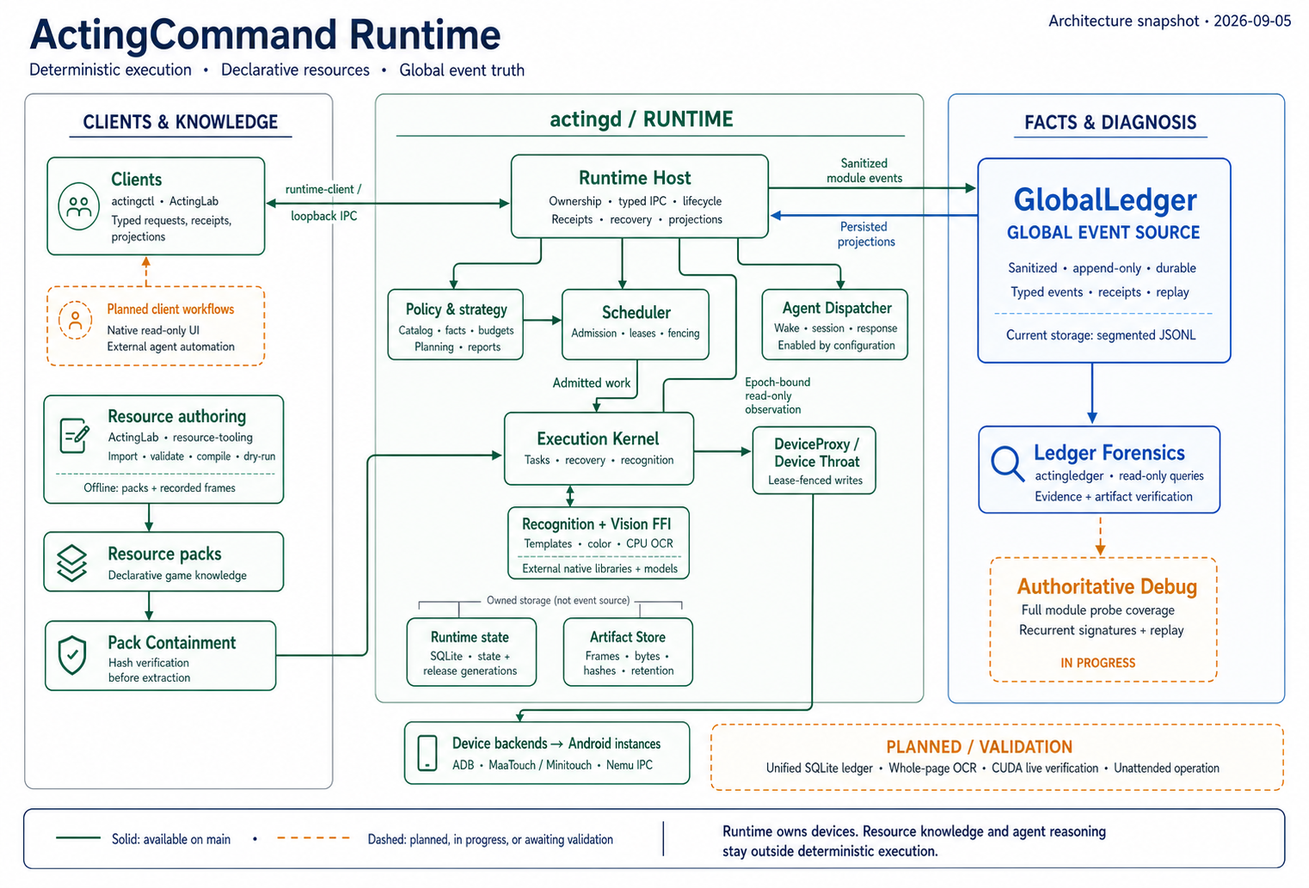
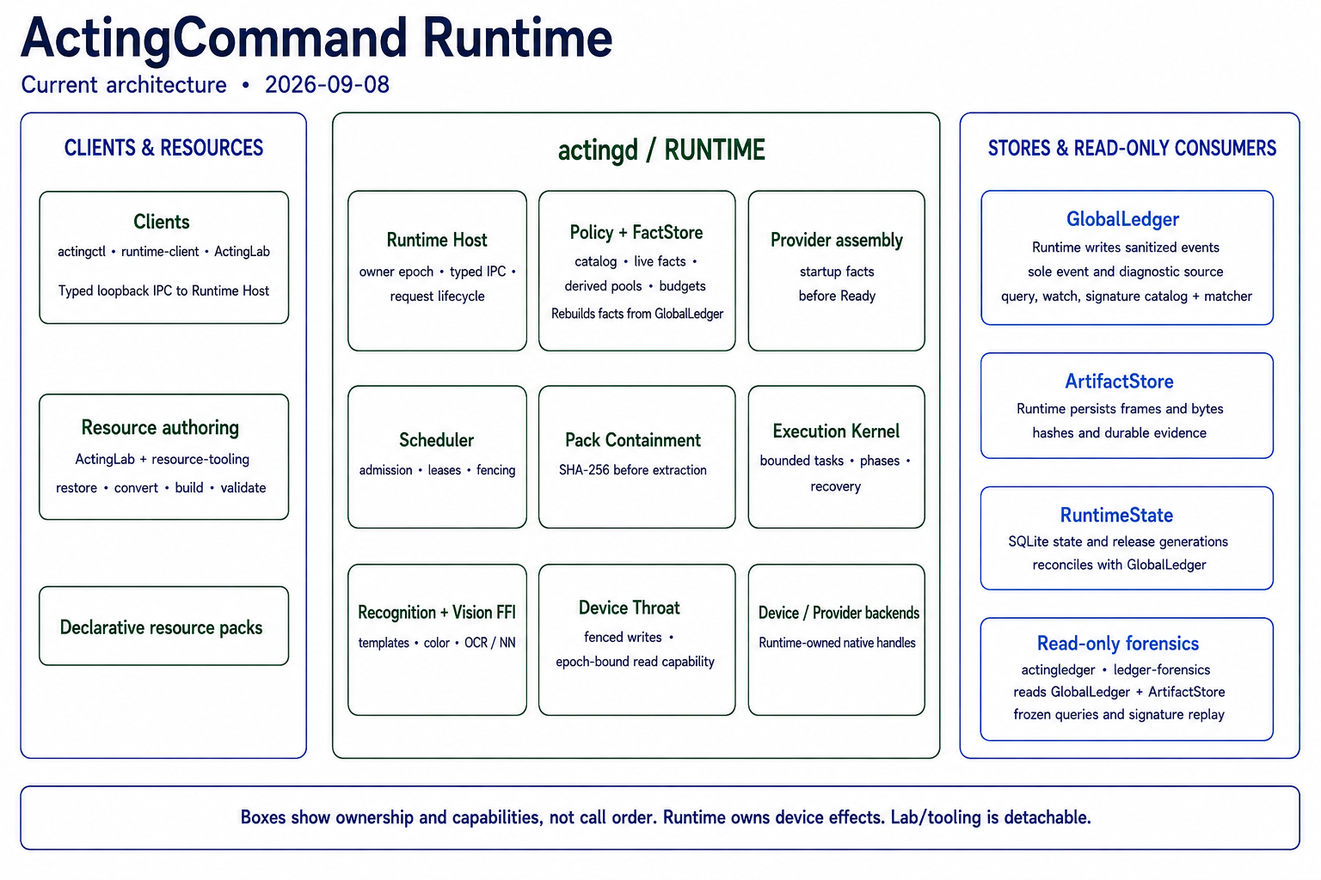
docs: align bilingual README and diagrams with current Runtime

Changed region(s): [[0.0, 0.0, 0.9882, 0.9688], [0.8029, 0.0, 0.9882, 0.0312], [0.6176, 0.5938, 0.6485, 0.6562]]

diff --git a/README.en.md b/README.en.md
@@ -18,56 +18,50 @@
 
 CI: [current main status](https://github.com/HS7097/ActingCommand-Runtime/actions/workflows/ci.yml?query=branch%3Amain) (Windows: fmt / clippy `-D warnings` / test) · [Exact-SHA Windows build artifacts](https://github.com/HS7097/ActingCommand-Runtime/actions/workflows/windows-remote-build.yml) · License `AGPL-3.0-only` · This repository is public
 
-**Current maturity (2026-09-05)**: scheduling arbitration, the device throat, task containment, declarative policy catalogs, and budgeted dispatch are wired into the resident runtime. Instance facts, strategic evaluation, reports and planning signals, proposal generation, and the Runtime Dispatcher session protocol are implemented. GlobalLedger is the sole global event fact source and is being extended into an authoritative debugging tool across modules. **The OCR recognition chain has passed one full official CPU live run**: autonomous return-to-Home recovery, template navigation, single-touch segmented-swipe paging, 16-target OCR per frame, dictionary-normalized comparison, terminal-anchor-page completion, and a `return_home` closeout, in one command, 219 seconds, zero manual input. Real scheduling time semantics, long unattended operation, OCR coverage, and CUDA still need their corresponding live evidence.
-
-The early Python mock, historical Go contracts, and Go/Python benchmark tools have been moved out of this repository (archived in ActingCommand-Legacy-Runtime, **not yet public**); the Rust benchmark tool `benchmarks/rust` and historical benchmark reports remain.
+**Current implementation (2026-09-08)**: the resident Runtime exposes typed IPC, resource containment, scheduling and budgets, phased tasks, page/OCR projections, and durable receipts. GlobalLedger carries the sole event and diagnostic facts. Shared queries, registration/matching/retirement of finite diagnostic signatures, and read-only offline replay have official entry points. This document describes current mainline source; device, model, resource-pack, and long-running verification claims depend on their corresponding execution facts.
 
 ---
 
-## 🔁 The self-maintaining loop
+## 🔁 Execution and closeout
 
-![ActingCommand self-maintaining loop](./docs/assets/self-maintaining-loop.png)
+![ActingCommand startup, request execution, and shutdown flow](./docs/assets/self-maintaining-loop.png)
 
-The reason this architecture exists: to free game automation from "the game updates, and the whole world waits for the maintainer to ship." The target loop — after a game update (①), agents play and map out the changes (②), then author or revise declarative resource packs (③); packs enter the runtime through hash containment, get admitted by the scheduler (④), executed deterministically (⑤), fully ledgered (⑥); on failure, agents self-diagnose from ledger evidence and repair the resources (⑦), returning to ③. Zero per-frame reasoning inside the loop — reasoning is spent on maintenance, not execution.
+The three rows describe separate startup, single-request, and Host-shutdown lifecycles. Startup reads configuration and acquires OwnerGuard, opens ArtifactStore and GlobalLedger, then assembles the Provider and records startup facts before publishing the current owner's ready endpoint. Provider construction-ready attests this assembly; inference and lazy initialization require their own observations. See the [daemon entry point](./apps/actingd/src/main.rs) and [Provider startup contract](./contracts/provider-startup.md).
 
-Resource authoring, execution, and ledger diagnosis have been connected in practice: on the Aug–Sep 2026 OCR task chain, the resource pack was agent-authored, diagnosed and revised using ledger evidence, and then passed live — including the agent-assisted `return_home` recovery pack, now a live-verified reusable baseline in the resource repository. Runtime implements wake records, session start/resume, responses, and bounded session management. Actual automatic launch of external agents, ② (automatic exploration), and the complete autonomous maintenance loop remain planned.
+Runtime Host owns the request lifecycle. Resource SHA-256 verification precedes extraction; Scheduler manages admission and device-write leases, while Execution Kernel runs bounded tasks, phases, and recovery. Read-only observation uses an owner-epoch-bound read capability. Lease fencing governs device effects, and terminal receipts reference durable outcome facts. GlobalLedger records events throughout; ArtifactStore retains frames and large raw payloads. Task outcome and evidence completeness are reported separately.
+
+Host shutdown stops admission, drains work, and reclaims the policy driver before Scheduler-authorized native-resource closure, quiescence, and the final M4 summary. Sessions retained by read-only observation use dedicated resource-close-only leases. Primary and cleanup errors are both preserved; unconfirmed closure retains Unconfirmed and owner protection. The Host remains resident after an individual request; the shutdown row is a separate lifecycle. See [read-session resource closure](./contracts/read-session-resource-close.md) and [native-resource ownership](./contracts/nemu-owned-resource-close.md).
+
+Maintenance can recover resource drafts from ledger facts and verified artifacts, then author, build, and validate them for execution. Runtime Dispatcher implements wake records, session start/resume, responses, and bounded management. Automatic external-agent launch, exploration, and the complete autonomous maintenance loop still require further implementation and verification.
 
 ## 🏛 System shape
 
-![ActingCommand Runtime architecture](./docs/assets/runtime-architecture.png)
+![ActingCommand Runtime component ownership map](./docs/assets/runtime-architecture.png)
 
-Green/blue nodes and solid lines represent current capabilities merged into `main` and wired into their corresponding entry points; orange nodes and dashed lines represent capabilities that are planned, in progress, or awaiting verification. GlobalLedger is the sole global event fact source; existing read-only forensics and future authoritative debugging both read from it. Source integration does not imply that every corresponding live scenario has been verified.
+The boxes show current ownership and capabilities; the execution diagram above shows lifecycle order. Production clients request Runtime work through typed loopback IPC. Runtime holds devices and native Providers, and Scheduler arbitrates write effects. Lab/resource tooling forms a detachable authoring and debugging layer. [CONTEXT.md](./CONTEXT.md) defines the terms and responsibilities.
 
-Terminology follows [CONTEXT.md](./CONTEXT.md) in the repository (Runtime Host / Scheduler / Execution Kernel / Device Throat / DeviceProxy, each defined precisely).
-
-**GlobalLedger's diagnostic role**: typed events, durable receipts, and replay already exist, with `actingledger` providing read-only forensics. Module-wide probe coverage, recurrence signature matching, and replay assessment are in progress. The goal is to elevate the ledger into an authoritative debugging tool that locates normal results, degradation, and failure causes in the same event source, keeping every diagnosis traceable to its original facts. Complete diagnostic coverage is not yet available.
-
-## 📍 Current progress (2026-09-05)
-
-| Milestone | What happened |
+| Boundary | Current behavior and source entry |
 |---|---|
-| **2026-08-10** | First live end-to-end loop: hash-sealed resource pack → resident runtime → live emulator page recognition → contained task execution → typed scheduling outcome → fully ledgered; 3.4 seconds per run, zero manual input. |
-| **2026-08-20** | Composite daily + weekly reward-claim task chain completed live (real claim branch verified). |
-| **2026-09-01** | **Official CPU live OCR full run: PASS** — non-Home entry autonomously recovered by the runtime (2 steps back to Home, re-verified) → template navigation to the operator roster → 41 frames of single-touch segmented-swipe paging (uniform drag + vertical brake, MaaTouch point stream) → 16-target OCR per frame (920 mapping records, zero discarded) → canonical/alias/tolerant dictionary comparison (294 unique canonical names, zero out-of-dictionary) → `operator_end` anchor-page termination → `return_home` closeout. 219 seconds, strict no-fallback, all 42 projection artifacts hash-bound. |
+| **Host and Provider** | Host manages owner epoch, IPC, requests, and closure. Provider assembly follows store opening; startup results are ledgered before Ready. [Startup contract](./contracts/provider-startup.md) |
+| **Resources and execution** | Containment verifies pack hashes; Scheduler manages leases and fencing; Kernel consumes contained resources for bounded tasks, phases, and recovery. [Contained operations](./contracts/contained-lab-operation.md) |
+| **Events and artifacts** | GlobalLedger persists sanitized events as the sole diagnostic fact source. ArtifactStore retains referenced bytes, hashes, and retention metadata; persistence failures propagate explicitly. [Event query](./contracts/global-ledger-query.md) |
+| **State and policy** | RuntimeState uses SQLite for state and immutable release generations, reconciled with GlobalLedger. Policy reuses one compiler, clock, and pure evaluation semantics. [Scheduling v2](./contracts/scheduling/v2/README.md) |
+| **Read-only consumers** | actingledger / ledger-forensics read the ledger and ArtifactStore, preserving corruption locations, gaps, and frozen cursors. Input material stays read-only. [Finite signatures](./contracts/diagnostic-signatures.md) |
+| **Lab and resource authoring** | Online observation/operations use Runtime; detachable Lab/resource-tooling supplies offline authoring, restoration, compilation, and pack validation. [Resource restoration](./contracts/resource-restore.md) |
 
-| Dimension | State |
+## 📍 Current capabilities and verification boundaries
+
+| Capability | Current implementation |
 |---|---|
-| **Execution and resource entry points on `main`** | Resident daemon, typed loopback IPC, scheduling admission and lease fencing, contained task execution (task timeout, terminal anchors, independent `max_steps`, recovery-pack auto-repositioning), pack containment, artifact store and official OCR projection (v2, paginated), device backends (including `SegmentedSwipe`, MaaTouch/Minitouch point streams, dynamic MuMu Nemu IPC binding), NCC template matching and color predicates, production OCR provider wiring, and dictionary-constrained comparison. ActingLab connects recording, drafts, pack building, transactional publication, and offline `package dry-run` rehearsal. |
-| **Scheduling and maintenance interfaces on `main`** | Four-document declarative policy catalogs, the pure evaluator, immutable catalog versions, dispatch, and budgets are wired into `actingd`. Instance `PublishFact`, strategic deficit/capacity/urgency evaluation, reports, planning signals, and proposal generation are implemented. Runtime Dispatcher implements wake/session/start/resume/response, recovery, and bounded configuration. Project interface v2 provides paginated read-only projections of projects, instances, catalogs, facts, goals, decisions, runtime state, and diagnostics for future UI queries. |
-| **Current persistence and diagnosis** | GlobalLedger uses segmented persistence and is the sole global event fact source. RuntimeState uses SQLite for runtime state and immutable release generations, reconciled with the Ledger. `ledger-forensics` / `actingledger` provide read-only forensics. |
-| **In progress and awaiting verification** | Module-wide ledger probe coverage, signature matching and replay assessment; real scheduling time semantics and long unattended operation; expansion of the first complete resource task set; OCR coverage, whole-page multi-block detection, and CUDA live testing; coverage of the capture backend matrix (adb / droidcast_raw / nemu_ipc). CPU OCR has the single full live-run result recorded above. |
-| **Future work** | Automatic launch of external agents and the complete autonomous maintenance loop; a native Rust read-only monitoring console; a GlobalLedger SQLite backend and unified RuntimeDatabase. |
+| **Execution and recognition** | Typed IPC, hash containment, task timeout/step/terminal-anchor limits, phased control and total budgets, recovery packs, template matching, color predicates, OCR dictionary comparison, and official page projections. |
+| **Online Lab** | observe obtains Runtime's current page projection. do resolves an operation from current element projections and can wait for a target page within the same bounded request. Old-frame hints retain provenance; actual input uses current resolution. [Page projection](./contracts/page-projection.md), [operation contract](./contracts/contained-lab-operation.md) |
+| **Offline resource consumption** | restore uses GlobalLedger, verified ArtifactStore references, and the original pack to recover supported operation drafts. convert → build-task → validate reuses the existing resource pipeline. Unrecoverable fields/dependencies produce explicit gaps; authors declare the business goal. [Resource restoration](./contracts/resource-restore.md) |
+| **Calendars and budgets** | Four-document policy catalogs, v2 interval-validity predicates, server clocks, pure compilation/evaluation, immutable catalogs, dispatch, and budgets. Lab scheduling compile/timeline provides official offline entry points. Configuration-registered instance aliases remain intact through policy. [Scheduling guide](./contracts/scheduling/README.md) |
+| **Live facts and pools** | agent-publish-facts atomically submits typed facts through Runtime. FactStore retains original observation times, TTL, provenance, and input watermarks; ledger_fact pools derive from the same fact snapshot. Expired, unknown, low-confidence, and input-invalidated observations keep explicit states. [Live fact pools](./docs/live-fact-pools.md) |
+| **State and planning** | Instance facts, strategic deficit/capacity/urgency, reports, planning signals, proposals, and Dispatcher sessions; project interface v2 supplies bounded read-only projections. Status/MonitorStatus samples are ledgered before their fact-bound responses. [State observation](./contracts/runtime-state-observation.md) |
+| **Queries and signatures** | EventQuery shares module, diagnostic-code, and correlation filters with lab watch and offline events. Explicit Lab register/match/retire operations ask Runtime to record signature facts; actingledger replays frozen catalogs and inputs read-only. Missing fields, multiple matches, and incomplete evidence are explicit. [Queries](./contracts/global-ledger-query.md), [signatures](./contracts/diagnostic-signatures.md) |
 
-## 🗺 Roadmap
-
-Remaining capabilities and verification work, with no dates promised:
-
-1. **Authoritative ledger debugging** — extend typed probes across modules and complete signature matching and replay assessment so normal results, degradation, and failure causes can be located in the ledger;
-2. **Resident-operation evidence** — build on existing policy, budget, fact, and strategic-report capabilities to verify real time semantics, recovery, and long unattended operation, comparing planning signals with actual outcomes;
-3. **Resources and recognition** — extend the first complete task set, verify roster coverage, and complete provider whole-page multi-block detection (whole-page reads + overlap dedup), CUDA, and capture-backend matrix verification;
-4. **Clients and autonomous maintenance** — build a native Rust read-only monitoring console, connect external agent launch to the existing Dispatcher session interface, and progressively complete automatic exploration, resource revision, and re-verification;
-5. **Future storage evolution** — plan a GlobalLedger SQLite backend and unified RuntimeDatabase while preserving the sole event fact source and recoverable state reconciliation;
-6. **MAA / MaaFramework compatibility** — continue the MAA resource seed-import and MaaFramework second-execution-backend directions.
+Signature matching classifies a finite set of registered failure contexts; root-cause conclusions still require the original facts. Probe, signature, and replay coverage is bounded, with absent observations preserved as gaps. Real calendar dispatch, long unattended operation, device/capture-backend matrices, OCR coverage, and CUDA results must identify their execution and materials. Source integration establishes capability.
 
 ## ⚖ Seven structural invariants (enforced by guards / tests / compile-time and real-process counterexamples)
 
@@ -75,7 +69,7 @@ Remaining capabilities and verification work, with no dates promised:
 2. **The Runtime is the only device holder**: the dependency graphs and sources of production clients (actingctl / runtime-client / ActingLab) cannot reach device backends; raw adb exists only in the `device` crate beneath the Runtime; historical client device commands are fail-loud tombstones. (Exception: `apps/device-test` is a direct-device diagnostic binary outside the production chain.);
 3. **GlobalLedger is the only source of truth**: its only write entry is `append(SanitizedEventDraft)`; sanitization precedes persistence; terminal states are absorbing (duplicate/conflicting commits are rejected with an audit fact). Clients may submit typed instance facts through `PublishFact`; Runtime controls their processing and ledger persistence, and clients never write the ledger directly;
 4. **Containment is the only kernel entry for resources**: hash verification (constant-time comparison) precedes extraction, with a compressed-size upper-bound precheck; the `LoadedBundle` capability makes "using an unverified pack" unrepresentable by construction — pinned by trybuild compile-failure cases;
-5. **Tasks must not summon tasks**: a task only emits pure-data successor suggestions and never chain-starts them; the production path fail-louds a successor suggestion back to the caller (`contained_task_requires_scheduler`). Scheduler adjudication of successors is a planned next step;
+5. **Tasks must not summon tasks**: a task only emits pure-data successor suggestions and never chain-starts them; the production path fail-louds a successor suggestion back to the caller (`contained_task_requires_scheduler`), leaving successor adjudication to Scheduler;
 6. **Lab and resource tooling are detachable**: proven by a dependency-graph guard under `--all-features` — no workspace package outside Lab / ActingLab / resource-tooling has any dependency path into them (with feature-gate-bypass counterexamples); resource tooling likewise cannot reach back into the Runtime or the device layer;
 7. **Zero game identity**: Runtime-owned code, contracts, and defaults are scanned by an architecture guard banning known project identity terms (game names, package names, server suffixes), with tests in scope; coordinates and thresholds exist only in resource packs, not in runtime code — a design convention, not auto-enforced. The framework recognizes "game shape" (resource pools, pages, tasks), never "game identity". Comparison **algorithms** live in the Runtime; the compared **values** (truth dictionaries etc.) all come from packs — same invariant.
 
@@ -88,8 +82,8 @@ Nine further **completion acceptance invariants** (deterministic replay, zero-si
 | Name | Responsibility |
 |---|---|
 | `actingd` | Resident daemon process adapter hosting all kernel components below |
-| `actingctl` | Production user CLI (observe / status / monitor-* / stream / reset / task-run, with `--recovery-package` auto-repositioning); successful results are single-line JSON |
-| `actinglab` | Debug probe + resource authoring (record → draft → build → transactional publish → offline `package dry-run`); **not a production dependency** |
+| `actingctl` | Production user CLI: observe / status / monitor-* / stream / reset / task-run / agent-publish-facts / request-shutdown; JSON receipts and exit status |
+| `actinglab` | Online Runtime observation/operations, queries and signatures; offline resource restoration/authoring/build/validation, scheduling compilation and timeline; **not a production dependency** |
 | `device-test` | Device backend diagnostic tool; independent `ledger --state-root <runtime-state>` reads Runtime facts through B ([query options](contracts/global-ledger-query.md)) |
 | `vision-provider-check` | Read Provider startup facts from a specified Runtime ledger; mechanical file hashes and PE exports |
 | `actingledger` (`apps/ledger-forensics`) | Read-only GlobalLedger forensics CLI |
@@ -101,7 +95,7 @@ Nine further **completion acceptance invariants** (deterministic replay, zero-si
 | `runtime-host` | Resident ownership, local typed IPC, lease-gated DeviceProxy, instance facts and policy/budget dispatch, strategic reports, and Dispatcher session lifecycle |
 | `runtime-client` | Client-side typed local IPC and project interface v2 paginated read-only projections; neither constructs nor holds production device backends |
 | `scheduler` | Per-instance write admission, lease lifecycle and fencing authority |
-| `execution-kernel` | Daemon-held execution sessions + pure task/probe decision planning; contained-task timeout, step, and terminal-anchor semantics |
+| `execution-kernel` | Daemon-held execution sessions + pure task/probe decision planning; contained-task timeout, steps, phase/total budgets, and terminal-anchor semantics |
 | `ledger` | Segmented persistent global event ledger (sole event fact source and authoritative diagnostic source) |
 | `artifact-store` | Artifact bytes, hashes, retention metadata, frame buffers, evidence export |
 | `runtime-state` | SQLite-backed runtime state and immutable release generations, reconciled with GlobalLedger |
@@ -113,7 +107,7 @@ Nine further **completion acceptance invariants** (deterministic replay, zero-si
 | `actingcommand-contract` | Mainline Rust contract definitions (protocol / device / engine boundary vocabulary) |
 | `host-metrics` | Safe boundary for platform performance counters |
 
-**Recognition FFI boundary (wired into the production recognition path; live-verified on CPU)**
+**Recognition FFI boundary (wired into the production recognition path)**
 
 | Name | Responsibility |
 |---|---|
@@ -134,10 +128,10 @@ Nine further **completion acceptance invariants** (deterministic replay, zero-si
 
 ## 🔍 Recognition plane status
 
-- **Available (live-verified)**: template matching (NCC family) and color predicates; the OCR production chain — `PP-OCRv6_medium` (ONNX Runtime, CPU, strict no-fallback), per-invocation execution attestation (provider/model/device hashes each time), canonical/alias/tolerant dictionary comparison with bounded retry;
-- **Known boundary**: the provider currently has region single-line semantics (one block per target). Roster coverage still needs verification; whole-page multi-block detection (det → per-box rec) awaits implementation and verification, targeting "whole-page reads + overlap dedup";
-- **Pending live test**: CUDA execution (closure, Ready manifests, and device ordinal / stable-identity checks are implemented). One passing CPU run does not verify CUDA, whole-page recognition, or complete roster coverage;
-- **Not distributed with the repository**: ONNX Runtime native libraries and OCR/NN models; they are materialized per task-local cache by the pinned-source hash-verified official tool, with `apps/vision-provider-check --state-root <runtime-state>` reading startup stages, bindings and original failures through B from the same ledger. `--after`, `--through` and `--limit` preserve a bounded page cursor. Ready attests construction only; inference and lazy initialization remain unobserved. Manifest, artifact-lock and export-audit modes report mechanical file observations.
+- **Current path**: NCC-family template matching and color predicates; PP-OCR single-line ROI recognition, OCR/NN JSON ABIs, canonical/alias/tolerant dictionary comparison, bounded retries, and per-invocation execution provenance. Current facts identify the model, provider, and device.
+- **Coverage boundary**: the provider currently uses region single-line semantics. Whole-page multi-block detection, complete roster coverage, CUDA, and capture-backend combinations require their respective implementation or verification. Existing CPU-run evidence remains bounded by its original records.
+- **External dependencies**: ONNX Runtime native libraries and models use pinned-source, hash-verified materialization; see the [Windows tools guide](./scripts/windows-tools/README.md). They are not distributed with this repository.
+- **Startup diagnosis**: vision-provider-check with `--state-root` reads Provider startup facts from the same Runtime through the read-only forensics layer. `--after`, `--through`, and `--limit` provide bounded cursors. Manifest, artifact-lock, and export-audit modes are mechanical file observations. Inference and lazy initialization require corresponding facts.
 
 ## 🧭 Design principles
 
@@ -173,7 +167,7 @@ actingcommand-actingd --config <actingd.json>
 # Daemon-level status (does not accept --instance)
 actingctl status --state-root <state-root>
 
-# Read-only single-frame observation (scheduler-admitted; events and frame artifacts ledgered)
+# Read-only single-frame observation (owner-epoch-bound read capability; events and artifacts ledgered)
 actingctl observe --state-root <state-root> --instance <alias>
 
 # Execute a contained task pack (hash verification precedes extraction)
@@ -185,13 +179,14 @@ actingctl task-run --state-root <state-root> --instance <alias> \
   [--recovery-package <recovery.zip> --recovery-expected-sha256 <hash>]
 ```
 
-On success, `actingctl` writes single-line JSON to stdout, including the official OCR projection where applicable. Argument, connection, and other errors write text to stderr and exit nonzero. Integrations must handle both output streams and the exit code. Both CLIs use hand-written argument parsing and provide **no `--help` / `--version`**.
+`actingctl` writes single-line JSON to stdout, including the official OCR projection where applicable. Failed receipts can also include JSON and exit nonzero; argument, connection, and other errors write text to stderr. Integrations must handle both output streams and the exit code. `actingcommand-actingd` and `actingctl` use hand-written argument parsing and provide **no `--help` / `--version`**; see the [CLI entry point](./apps/actinglab/src/main.rs) for ActingLab commands and options.
 
 Every `actingctl` command requires `--state-root`. The parameters consumed by each subcommand are listed below; the [argument parser](./apps/actingctl/src/main.rs) defines current behavior:
 
 | Subcommand | Instance and command parameters |
 |---|---|
-| `status` / `monitor-status` | Do not accept `--instance` |
+| `status` / `monitor-status` / `request-shutdown` | Do not accept `--instance` |
+| `agent-publish-facts` | Requires `--record-file`; the submission carries its fact scopes; does not accept `--instance` |
 | `observe` / `reset` / `monitor-clear` | Require `--instance` |
 | `monitor-set` | Requires `--instance`; optional `--interval-ms` (default 30000), `--expect` (default `home`), `--recover` |
 | `stream` | Requires `--instance`; optional `--max-frames` (default 1), `--interval-ms` (default 250) |
@@ -199,15 +194,15 @@ Every `actingctl` command requires `--state-root`. The parameters consumed by ea
 
 Use only the parameters belonging to the selected subcommand; the current parser accepting a known parameter does not imply that the subcommand uses it.
 
-## 🎮 Resource repositories
+`actingctl request-shutdown --state-root <state-root>` is an ordinary local Cli/Cli maintenance entry point. The client freezes the discovered owner epoch, PID, and start time. Host checks that owner, active leases, queued work, and in-flight requests/native actions at its admission gate. A busy owner returns `RuntimeBusy` and continues serving; an owner mismatch returns `RuntimeOwnerMismatch`. This operation needs no governance secret; owner epoch is not authentication.
 
-Game data (recognition templates, navigation graphs, operation and recovery declarations) is versioned independently of the runtime. The following repositories are **currently private**:
+Acceptance first records the typed GlobalLedger target and decision, then stops admission. The daemon reclaims the policy driver and uses `RuntimeHost::close` to settle resources, the M4 summary, ledger, and owner. JSON `shutdown_accepted` and `admitted` mean acceptance only; completion requires actual closure facts, the final summary, and the process result. A lost receipt reports `runtime_shutdown_receipt_unconfirmed` with the original error. The client does not resubmit or switch owners. Existing fatal and unconfirmed-resource protection remains in force.
 
-- **ActingCommand-Resources-Arknights** — upstream-derived layer from MAA; own layer currently includes: the composite daily+weekly reward-claim chain (live-verified), the operator-roster OCR task pack (four-fix edition, official live PASS; declaring task timeout, terminal anchor page, 16 OCR targets, and a 422-name truth dictionary), the `return_home` recovery baseline (live-verified, frozen, reusable), recruitment and full-entry navigation/operation sets, home-theme detection declarations (full hometheme set), character/material catalogs, recognition and recovery declarations, scheduling declarations (CN server);
-- **ActingCommand-Resources-AzurLane** — upstream-derived layer from Alas; own layer: main-screen navigation and full-entry operation sets, full character/equipment catalog templates (Git LFS), recognition and recovery declarations;
-- **ActingCommand-Resources-BlueArchive** — upstream-derived layer from BAAH / BAAS (coordinate catalogs and check regions); own layer: daily-claim pilot task, full-entry operation sets, equipment/material catalogs, recognition and recovery declarations.
+## 🎮 Resource packs and deployment
 
-Each repository uses a two-layer layout: `upstream-derived/` (third-party derived material with licenses and provenance) + `ours/` (own declarative data).
+Game templates, navigation, operations, recovery, and calendar declarations are versioned in independent resource sources. Resource tooling produces formal packs for Runtime containment by exact hash. Authors maintain provenance, licenses, and material evidence. Reusable assets and deployment-specific tasks are organized separately, with account-specific selections and configuration kept in private deployments.
+
+[Resource restoration](./contracts/resource-restore.md) describes drafting from existing ledger facts and the original pack; [scheduling declarations](./contracts/scheduling/README.md) connect tasks, procedures, facts, and budgets. Reproducing a task requires its resources, dependencies, and deployment configuration. Pack generation/compilation and actual execution results are recorded separately.
 
 ## 🤝 How we collaborate
 

diff --git a/README.md b/README.md
@@ -18,56 +18,50 @@
 
 CI:[主线当前状态](https://github.com/HS7097/ActingCommand-Runtime/actions/workflows/ci.yml?query=branch%3Amain)(Windows:fmt / clippy `-D warnings` / test) · [精确 SHA Windows 构建产物](https://github.com/HS7097/ActingCommand-Runtime/actions/workflows/windows-remote-build.yml) · 许可 `AGPL-3.0-only` · 本仓公开
 
-**当前成熟度(2026-09-05)**:调度仲裁、设备咽喉、任务收容、声明式策略目录与预算派发已接入常驻运行时;实例事实、战略求值、报告与规划信号、提案生成及 Runtime Dispatcher 会话协议已有实现。GlobalLedger 是全局唯一事件事实源,正推进为覆盖各模块的权威调试工具。**OCR 识别链已完成一轮官方 CPU 实机全流程验证**:自动回 Home 恢复、模板导航、单触分段滑动翻页、逐帧 16 目标 OCR、字典规范化比对、terminal 锚页判终、`return_home` 收口,一条命令 219 秒无人工输入完成。真实调度时间语义、长期无人值守、OCR 覆盖率与 CUDA 仍需完成对应实证。
-
-早期的 Python mock 与 Go 历史契约、以及 Go/Python 基准工具已迁出本仓(归档于 ActingCommand-Legacy-Runtime,**暂未公开**);仓内保留 Rust 基准工具 `benchmarks/rust` 与历史基准报告。
+**当前实现（2026-09-08）**：常驻 Runtime 已接入类型化 IPC、资源收容、调度与预算、阶段任务、页面/OCR 投影和持久回执。GlobalLedger 承载唯一事件与诊断事实；共享查询、有限诊断签名的登记/匹配/退役及只读离线回放均有正式入口。本文描述当前主线源码；具体设备、模型、资源包与长期运行的验证范围须以相应运行事实为准。
 
 ---
 
-## 🔁 自维护闭环
+## 🔁 执行与收尾
 
-![ActingCommand 自维护闭环](./docs/assets/self-maintaining-loop.png)
+![ActingCommand 启动、请求执行与关闭流程](./docs/assets/self-maintaining-loop.png)
 
-这套架构存在的理由:让游戏自动化摆脱「游戏一更新,全世界等维护者发版」。目标闭环是——游戏版本更新(①)后,智能体试玩摸清变化(②),制作或修订声明式资源包(③);资源包经哈希收容进入运行时,由调度器准入(④)、确定性执行(⑤)、全程入账(⑥);失败时,智能体凭账本证据自诊断并修复资源(⑦),回到 ③。环内逐帧零推理——推理花在维护,不花在执行。
+图中三行分别是启动、单次请求和 Host 关闭的生命周期。启动先读取配置并取得 OwnerGuard，再打开 ArtifactStore 与 GlobalLedger，随后装配 Provider、记录启动事实，最后发布当前 owner 的就绪端点。Provider 的 construction-ready 表示本次装配完成；推理与懒初始化需要各自的实际观察。见 [daemon 入口](./apps/actingd/src/main.rs) 与 [Provider 启动契约](./contracts/provider-startup.md)。
 
-资源制作、执行与账本诊断已在实战中串联:2026-08 至 09 月初的 OCR 任务链上,资源包由智能体撰写、经账本证据诊断并修订后实机通过——含智能体辅助制作的 `return_home` 恢复包(实机验证后成为资源仓中的可复用基线)。Runtime 已具备唤醒记录、会话启动/恢复、响应与有界会话管理;外部智能体的实际自动启动、②(自动摸清)与完整自主维护闭环仍在规划中。
+请求由 Runtime Host 管理生命周期。资源包经过 SHA-256 校验再解压；Scheduler 管理准入和设备写租约，Execution Kernel 执行有界任务、阶段与恢复。只读观察使用绑定 owner epoch 的读取能力。设备效果受租约 fencing 约束，终态回执引用已持久化的结果事实。GlobalLedger 持续记录事件，ArtifactStore 保存帧与大体量原文；任务结局和证据完整性分别表达。
+
+Host 关闭先停止准入、排空工作并回收 policy driver，再经 Scheduler 授权关闭所持有的原生资源、记录 quiescence 与最终 M4 summary。只读观察留下的会话使用专用 resource-close-only 租约关闭。主错误和清理错误均保留；关闭未确认时保持 Unconfirmed 和 owner 保护。每次请求结束后 Host 继续常驻；图中关闭行是独立生命周期。见 [只读会话资源关闭](./contracts/read-session-resource-close.md) 与 [原生资源所有权](./contracts/nemu-owned-resource-close.md)。
+
+维护侧可从账本与已验证制品恢复资源草稿，经制作、构包与校验后提交执行。Runtime Dispatcher 已有 wake、会话启动/恢复、响应与有界管理；外部智能体自动启动、自动探索和完整自主维护仍需后续实现与验证。
 
 ## 🏛 系统形态
 
-![ActingCommand Runtime 架构图](./docs/assets/runtime-architecture.png)
+![ActingCommand Runtime 组件所有权图](./docs/assets/runtime-architecture.png)
 
-图中绿色/蓝色节点及实线表示已经合入 `main` 并接入相应入口的当前能力;橙色节点及虚线表示规划、推进或待验证的能力。GlobalLedger 是全局唯一事件事实源;已有只读取证与未来权威调试能力都从这一事件源读取。源码接入不等于对应实机场景已经验证。
+图中方框表示当前组件所有权与能力分工，调用顺序见上方流程图。生产客户端经 typed loopback IPC 请求 Runtime；Runtime 持有设备与原生 Provider，Scheduler 仲裁写效果。Lab/资源工具处于可拆卸的制作与调试层。术语与职责以 [CONTEXT.md](./CONTEXT.md) 为准。
 
-术语以仓内 [CONTEXT.md](./CONTEXT.md) 为准(Runtime Host / Scheduler / Execution Kernel / Device Throat / DeviceProxy 等逐条定义)。
-
-**GlobalLedger 的诊断定位**:当前已有类型化事件、持久回执与重放,`actingledger` 提供只读取证入口。全模块探针覆盖、复发签名比对与回放考核正在推进,目标是把账本升格为权威调试工具:从同一个事件源定位正常结果、降级与失败原因,保持每条诊断与原始事实可追溯。完整诊断覆盖尚未完成。
-
-## 📍 当前进度(2026-09-05)
-
-| 里程碑 | 内容 |
+| 边界 | 当前行为与源码入口 |
 |---|---|
-| **2026-08-10** | 首次实机端到端闭环:哈希封印资源包 → 常驻运行时 → 模拟器实机页面识别 → 收容任务执行 → 类型化调度结局 → 全程入账;单次 3.4 秒,零人工输入。 |
-| **2026-08-20** | 日常+周常复合领取任务链实机完成(实弹领取分支验证)。 |
-| **2026-09-01** | **官方 CPU 实机 OCR 全流程 PASS**:开局非 Home 由运行时自主恢复(2 步回 Home 复验)→ 模板导航入干员页 → 41 帧单触分段滑动翻页(匀速拖动+垂直刹车,MaaTouch 点流)→ 每帧 16 目标 OCR(920 条映射记录零丢弃)→ 规范/别名/容错字典比对(294 唯一规范名,零越界)→ `operator_end` 锚页判终 → `return_home` 收口。219 秒,严格无回退,42 个投影工件逐一哈希绑定。 |
+| **Host 与 Provider** | Host 管理 owner epoch、IPC、请求和关闭；Provider 在存储已打开后装配，启动结果先入账再 Ready。[启动契约](./contracts/provider-startup.md) |
+| **资源与执行** | Containment 校验包哈希；Scheduler 管理租约与 fencing；Kernel 消费收容资源并执行有界任务、阶段和恢复。[收容操作](./contracts/contained-lab-operation.md) |
+| **事件与制品** | GlobalLedger 持久化脱敏事件并提供唯一诊断事实；ArtifactStore 保存被引用字节、哈希与留存元数据，持久化失败显式传播。[事件查询](./contracts/global-ledger-query.md) |
+| **状态与策略** | RuntimeState 用 SQLite 保存状态及不可变发布代次，并与 GlobalLedger 对账；policy 复用唯一编译器、时钟与纯求值语义。[调度 v2](./contracts/scheduling/v2/README.md) |
+| **只读消费** | actingledger / ledger-forensics 读取账本与 ArtifactStore，保留损坏位置、缺口和冻结游标；输入材料保持只读。[有限签名](./contracts/diagnostic-signatures.md) |
+| **Lab 与资源制作** | 在线观察/操作通过 Runtime；离线制作、恢复、编译和包校验由可拆卸的 Lab/resource-tooling 承载。[资源恢复](./contracts/resource-restore.md) |
 
-| 维度 | 状态 |
+## 📍 当前能力与验证边界
+
+| 能力 | 当前实现 |
 |---|---|
-| **执行与资源入口已接入 `main`** | 常驻 daemon、typed loopback IPC、调度准入与租约 fencing、收容任务执行(任务超时、终止锚页、独立 `max_steps`、恢复包自动回位)、资源包收容、工件存储与官方 OCR 投影(v2,分页)、设备后端(含 `SegmentedSwipe`、MaaTouch/Minitouch 点流、MuMu Nemu IPC 动态绑定)、NCC 模板匹配与颜色判据、OCR provider 生产接线及字典约束比对。ActingLab 已串起录制、草稿、构包、事务化发布与 `package dry-run` 离线预演。 |
-| **调度与维护接口已接入 `main`** | 四文档声明式策略目录、纯求值器、不可变目录版本、派发与预算已接入 `actingd`;实例事实 `PublishFact`、战略差额/容量/紧迫度求值、报告、规划信号与提案生成已有实现。Runtime Dispatcher 已有 wake/session/start/resume/response、恢复与有界配置。项目接口 v2 提供项目、实例、目录、事实、目标、决策、运行状态与诊断的只读投影及分页,可供后续 UI 查询。 |
-| **当前持久化与诊断** | GlobalLedger 使用分段持久化,是全局唯一事件事实源;RuntimeState 使用 SQLite 保存运行状态与不可变发布代次,并与 Ledger 对账。`ledger-forensics` / `actingledger` 提供只读取证入口。 |
-| **正在推进与待验证** | 全模块账本探针覆盖、签名匹配与回放考核;真实调度时间语义与长期无人值守实证;资源产线首批完整任务扩充;OCR 覆盖率、整页多框检测与 CUDA 实测;采集三后端矩阵(adb / droidcast_raw / nemu_ipc)覆盖。CPU OCR 已有上述单次全流程实机结果。 |
-| **后续规划** | 外部智能体自动启动与完整自主维护闭环;Rust 原生只读监控台;GlobalLedger SQLite 后端与统一 RuntimeDatabase。 |
+| **执行与识别** | typed IPC、资源哈希收容、任务超时/步数/终止锚页、阶段控制与总预算、恢复包；模板匹配、颜色判据、OCR 字典比对和官方页面投影。 |
+| **在线 Lab** | observe 获取 Runtime 当前页面投影；do 按当前元素投影解析操作，可在同一请求内有界等待目标页面。旧帧提示保留来源，实际输入使用当前解析结果。[页面投影](./contracts/page-projection.md)、[操作契约](./contracts/contained-lab-operation.md) |
+| **离线资源消费** | restore 从 GlobalLedger、verified ArtifactStore 引用和原包恢复有依据的操作草稿；convert → build-task → validate 复用现有资源产线。无法重建的字段/依赖显式列出 gaps，业务目标由作者声明。[资源恢复](./contracts/resource-restore.md) |
+| **日历与预算** | 四文档策略目录、v2 时间区间有效谓词、服务器时钟、纯编译/求值、不可变目录、派发与预算；Lab scheduling compile/timeline 提供正式离线入口。实例别名在配置注册后沿 policy 保留。[调度说明](./contracts/scheduling/README.md) |
+| **实时事实与池** | agent-publish-facts 经 Runtime 原子提交类型化事实；FactStore 保留原观察时间、TTL、来源与输入水位，ledger_fact 池从同一事实快照派生。过期、未知、低置信度或被输入作废的观察保持明确状态。[事实池](./docs/live-fact-pools.md) |
+| **状态与规划** | 实例事实、战略差额/容量/紧迫度、报告、规划信号、提案与 Dispatcher 会话协议；项目接口 v2 提供有界只读投影。Status/MonitorStatus 的采样先入账，返回值绑定对应事实。[状态观察](./contracts/runtime-state-observation.md) |
+| **查询与签名** | EventQuery 统一模块、诊断码与关联字段过滤；lab watch 和离线 events 复用同一谓词。Lab 显式 register/match/retire 由 Runtime 写入签名事实；actingledger 对冻结目录与输入作只读回放。缺字段、多个命中、证据不完整均明确表达。[查询](./contracts/global-ledger-query.md)、[签名](./contracts/diagnostic-signatures.md) |
 
-## 🗺 路线图
-
-以下列出剩余能力与验证工作,不承诺日期:
-
-1. **权威账本调试**——扩充各模块类型化探针,完成签名匹配与回放考核,使正常结果、降级与失败原因都能从账本定位;
-2. **常驻运行实证**——在现有策略、预算、事实与战略报告能力上,完成真实时间语义、恢复与长期无人值守验证,对照实际结果评估规划信号;
-3. **资源与识别**——推进首批完整任务,验证名单覆盖率,完成 provider 整页多框检测(整页识别+重叠去重)、CUDA 与采集后端矩阵验证;
-4. **客户端与自主维护**——建设 Rust 原生只读监控台,接通外部智能体自动启动与现有 Dispatcher 会话接口,逐步完成自动摸清、资源修订与复验闭环;
-5. **后续存储演进**——规划 GlobalLedger SQLite 后端与统一 RuntimeDatabase,保持唯一事件事实源及可恢复的状态对账;
-6. **MAA / MaaFramework 兼容**——继续完善 MAA 资源种子导入与 MaaFramework 第二执行后端方向。
+签名匹配提供有限的已登记故障上下文分类；根因结论仍须追溯原始事实。当前探针、签名及回放范围有限，缺失的观察保留为缺口。真实日历派发、长期无人值守、设备/采集后端矩阵、OCR 覆盖率和 CUDA 的验证结论均需绑定相应运行与材料；源码接入本身仅证明能力存在。
 
 ## ⚖ 七条结构不变量(守卫 / 测试 / 编译期与真实进程反例执法)
 
@@ -75,7 +69,7 @@ CI:[主线当前状态](https://github.com/HS7097/ActingCommand-Runtime/actions/
 2. **Runtime 唯一设备持有**:生产客户端(actingctl / runtime-client / ActingLab)的依赖图与源码均不可触达设备后端,raw adb 只存在于 Runtime 之下的 `device` crate;客户端历史设备命令一律 fail-loud 墓碑。(例外:`apps/device-test` 是直连设备的诊断二进制,不在生产链路、不受该守卫约束);
 3. **GlobalLedger 唯一事实源**:唯一账本写入口是 `append(SanitizedEventDraft)`,脱敏先于持久化;终态为吸收态(重复/冲突提交被拒并留审计事实);客户端可经 `PublishFact` 提交类型化实例事实,由 Runtime 受控处理并入账,客户端不直接写账本;
 4. **收容为内核资源唯一入口**:哈希校验(常量时间比较)先于解压,并有压缩体积上界预检;`LoadedBundle` capability 按构造使"未校验包被使用"不可表示——由 trybuild 编译失败用例钉死;
-5. **任务不得唤起任务**:任务只产出纯数据的后继建议,自身绝不链式启动后继;生产路径遇到后继建议即 fail-loud 交还上层(`contained_task_requires_scheduler`)。由调度器裁决后继属规划中的下一步;
+5. **任务不得唤起任务**:任务只产出纯数据的后继建议,自身绝不链式启动后继;生产路径遇到后继建议即 fail-loud 交还上层(`contained_task_requires_scheduler`),由调度器裁决后继;
 6. **Lab 与资源工具链可拆**:由 `--all-features` 下的依赖图守卫证明——除 Lab / ActingLab / resource-tooling 自身外,任何工作区包都不存在通向它们的依赖路径(含特性门绕过的反例用例);资源工具链亦不得反向触达 Runtime 与设备层;
 7. **零游戏身份**:Runtime 自有代码、契约与默认值由架构守卫扫描,禁止出现已知项目身份词(游戏名、包名、区服后缀),该范围内测试代码一并执法;坐标与阈值只存在于资源包、不在运行时代码中——这是设计约定,不由守卫自动执法。框架只认"游戏形状"(资源池、页面、任务),不认"游戏身份"。比对**算法**在 Runtime,被比对的**值**(真值字典等)全部来自资源包,同属本不变量。
 
@@ -88,8 +82,8 @@ CI:[主线当前状态](https://github.com/HS7097/ActingCommand-Runtime/actions/
 | 名称 | 职责 |
 |---|---|
 | `actingd` | 常驻 daemon 进程适配器,承载下列全部内核组件 |
-| `actingctl` | 生产用户 CLI(observe / status / monitor-* / stream / reset / task-run,支持 `--recovery-package` 自动回位);成功结果为单行 JSON |
-| `actinglab` | 调试探针 + 资源制作(录制→草稿→构包→事务化发布→`package dry-run` 离线预演);**非生产依赖** |
+| `actingctl` | 生产用户 CLI: observe / status / monitor-* / stream / reset / task-run / agent-publish-facts / request-shutdown;输出 JSON 回执与退出状态 |
+| `actinglab` | Runtime 在线观察/操作、查询与签名入口;离线资源恢复/制作/构包/校验、调度编译与 timeline;**非生产依赖** |
 | `device-test` | 设备后端诊断工具；独立 `ledger --state-root <runtime-state>` 通过 B 只读查询 Runtime 账本（[查询参数](contracts/global-ledger-query.md)） |
 | `vision-provider-check` | 读取指定 Runtime 的 Provider 启动账本；文件哈希与 PE 导出表机械观察 |
 | `actingledger` (`apps/ledger-forensics`) | GlobalLedger 只读取证 CLI |
@@ -101,7 +95,7 @@ CI:[主线当前状态](https://github.com/HS7097/ActingCommand-Runtime/actions/
 | `runtime-host` | 常驻所有权、本地 typed IPC、租约门控的 DeviceProxy、实例事实与策略/预算派发、战略报告及 Dispatcher 会话生命周期 |
 | `runtime-client` | 客户端 typed 本地 IPC及项目接口 v2 只读分页投影;不构造也不持有生产设备后端 |
 | `scheduler` | 每实例写准入、租约生命周期与 fencing 权威 |
-| `execution-kernel` | daemon 持有的执行会话 + 纯任务/探针决策规划;收容任务超时、步数与终止锚页语义 |
+| `execution-kernel` | daemon 持有的执行会话 + 纯任务/探针决策规划;收容任务超时、步数、阶段/总预算与终止锚页语义 |
 | `ledger` | 分段持久化的全局事件账本(唯一事件事实源与权威诊断来源) |
 | `artifact-store` | 工件字节、哈希、留存元数据、帧缓冲与证据归档导出 |
 | `runtime-state` | SQLite 承载的 Runtime 状态与不可变发布代次,与 GlobalLedger 对账 |
@@ -113,7 +107,7 @@ CI:[主线当前状态](https://github.com/HS7097/ActingCommand-Runtime/actions/
 | `actingcommand-contract` | Rust 主线契约定义(协议 / 设备 / 引擎边界词汇) |
 | `host-metrics` | 平台性能计数器的安全边界 |
 
-**识别 FFI 边界(已接入生产识别路径,CPU 实机验证)**
+**识别 FFI 边界(已接入生产识别路径)**
 
 | 名称 | 职责 |
 |---|---|
@@ -134,10 +128,10 @@ CI:[主线当前状态](https://github.com/HS7097/ActingCommand-Runtime/actions/
 
 ## 🔍 识别面现状
 
-- **可用(实机验证)**:模板匹配(NCC 族)与颜色判据;OCR 生产链路——`PP-OCRv6_medium`(ONNX Runtime,CPU,严格无回退)、逐目标执行证明(provider/模型/设备逐次哈希证明)、字典规范/别名/容错比对与有界重试;
-- **已知边界**:provider 当前为区域单行识别语义(每目标一块);名单覆盖率仍需验证,整页多框检测(det→逐框 rec)待实现与验证,目标为"整页读+重叠去重";
-- **待实测**:CUDA 执行(闭包、Ready 清单、设备 ordinal/稳定身份校验机制已有实现);CPU 单次流程通过不代表 CUDA、整页识别或完整名单覆盖率通过;
-- **不随仓分发**:ONNX Runtime 原生库与 OCR/NN 模型均不在本仓;由钉源验哈希的官方物化工具按任务本地缓存获取,`apps/vision-provider-check --state-root <Runtime状态目录>` 经 B 只读显示同一账本中的启动阶段、绑定与原始失败；`--after`、`--through`、`--limit` 固定分页游标。启动 Ready 仅说明本次装配完成，推理和懒初始化仍未观察。文件 manifest、artifact-lock 和 export-audit 模式仅输出机械观察。
+- **当前路径**：NCC 族模板匹配与颜色判据；PP-OCR ROI 单行识别、OCR/NN JSON ABI、字典规范/别名/容错比对、有界重试与逐次执行来源证明。模型、provider 和设备来源由本次事实表达。
+- **覆盖边界**：区域单行是当前 provider 语义；整页多框检测、完整名单覆盖率、CUDA 和不同采集后端组合仍需各自的实现或验证。已有 CPU 流程证据的适用范围由其原始记录限定。
+- **外部依赖**：ONNX Runtime 原生库与模型通过钉源、哈希校验的物化入口准备，见 [Windows 工具说明](./scripts/windows-tools/README.md)。它们不随本仓分发。
+- **启动诊断**：vision-provider-check 的 `--state-root` 入口通过只读取证层显示同一 Runtime 的 Provider 启动事实；`--after`、`--through`、`--limit` 提供有界游标。manifest、artifact-lock 与 export-audit 是文件机械观察。推理与懒初始化是否发生须查对应事实。
 
 ## 🧭 设计原则
 
@@ -172,7 +166,7 @@ actingcommand-actingd --config <actingd.json>
 # daemon 级状态(不接受 --instance)
 actingctl status --state-root <state-root>
 
-# 只读观察一帧(经调度器准入,事件与帧工件全部入账)
+# 只读观察一帧(使用绑定 owner epoch 的只读能力,事件与帧工件入账)
 actingctl observe --state-root <state-root> --instance <alias>
 
 # 执行一个收容任务包(哈希校验先于解压)
@@ -183,13 +177,14 @@ actingctl task-run --state-root <state-root> --instance <alias> \
   [--recovery-package <recovery.zip> --recovery-expected-sha256 <hash>]
 ```
 
-`actingctl` 成功时向 stdout 写单行 JSON(含适用的官方 OCR 投影);参数、连接等错误向 stderr 写文本并以非零状态退出。接入方需同时处理退出码和两个输出通道。两个 CLI 均为手写参数解析,**不提供 `--help` / `--version`**。
+`actingctl` 向 stdout 写单行 JSON(含适用的官方 OCR 投影)。失败回执也可包含 JSON,并以非零状态退出;参数、连接等错误向 stderr 写文本。接入方需同时处理退出码和两个输出通道。`actingcommand-actingd` 与 `actingctl` 使用手写参数解析,**不提供 `--help` / `--version`**;ActingLab 的命令与参数见 [CLI 入口](./apps/actinglab/src/main.rs)。
 
 所有 `actingctl` 命令均需 `--state-root`;当前各子命令实际使用的参数如下,以 [参数解析源码](./apps/actingctl/src/main.rs) 为准:
 
 | 子命令 | 实例参数与命令参数 |
 |---|---|
 | `status` / `monitor-status` / `request-shutdown` | 不接受 `--instance` |
+| `agent-publish-facts` | 必需 `--record-file`;提交对象自身携带事实作用域;不接受 `--instance` |
 | `observe` / `reset` / `monitor-clear` | 必需 `--instance` |
 | `monitor-set` | 必需 `--instance`;可选 `--interval-ms`(默认 30000)、`--expect`(默认 `home`)、`--recover` |
 | `stream` | 必需 `--instance`;可选 `--max-frames`(默认 1)、`--interval-ms`(默认 250) |
@@ -207,15 +202,11 @@ JSON 中 `shutdown_accepted` 与 `admitted` 只表示接纳；完成需分别核
 summary 和进程结果。回执丢失报告 `runtime_shutdown_receipt_unconfirmed` 并保留原错误，
 客户端不重投、不切换 owner。已有 fatal 与未确认资源保留边界继续适用。
 
-## 🎮 资源仓
+## 🎮 资源包与部署
 
-游戏数据(识别模板、导航图、操作与恢复声明)独立于运行时版本化。以下仓库**目前均为私有**,外部读者暂不可访问:
+游戏模板、导航、操作、恢复与日历声明由独立资源源版本化，经资源工具生成正式包后，以精确哈希交给 Runtime 收容。来源、许可与素材证据由资源作者维护；通用素材和具体部署任务分别组织，账号特定选择与配置留在私有部署中。
 
-- **ActingCommand-Resources-Arknights**——上游派生层源自 MAA;自有层现有:日常+周常复合领取任务链(实机验证)、干员名单 OCR 任务包(四修版,官方实机 PASS;声明任务超时、终止锚页、16 目标 OCR 与 422 名真值字典)、`return_home` 恢复基线(实机冻结入库,可复用)、公招与全入口导航/操作集、主题检测声明(hometheme 全套)、角色/材料图鉴、识别与恢复声明、调度声明(CN 区服);
-- **ActingCommand-Resources-AzurLane**——上游派生层源自 Alas;自有层现有:主界导航与全入口操作集、角色/装备全量图鉴模板(Git LFS)、识别与恢复声明;
-- **ActingCommand-Resources-BlueArchive**——上游派生层源自 BAAH / BAAS(坐标目录与校验区域);自有层现有:每日领取试点任务、全入口操作集、装备/材料图鉴、识别与恢复声明。
-
-各仓采用 `upstream-derived/`(第三方派生素材,含许可证与出处)+ `ours/`(自有声明数据)两层布局。
+[资源恢复](./contracts/resource-restore.md)说明如何从已有账本与原包形成草稿；[调度声明](./contracts/scheduling/README.md)说明任务、procedure、事实与预算的关联。复现具体任务需要相应资源、依赖和部署配置，包的生成/编译结果与实际执行结果分别记录。
 
 ## 🤝 协作方式
 
